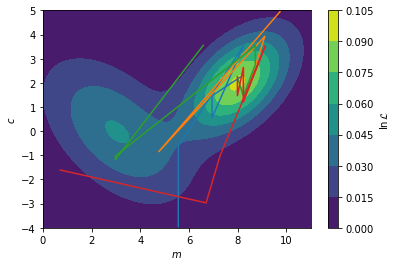
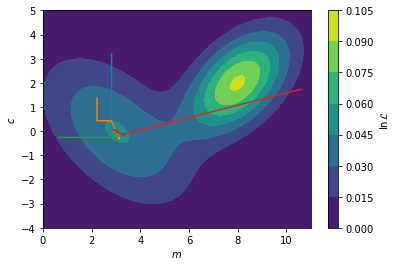
deploy: 8b0742b70a439c8d6c3557185ff2a49be4aedeb0

diff --git a/searchindex.js b/searchindex.js
@@ -1,1 +1,1 @@
-Search.setIndex({docnames:["1_the_fourier_transform/an_introduction_to_fourier_transforms","1_the_fourier_transform/fourier_transforms_for_reflectometry_analysis","2_model_dependent_analysis/what_is_model_dependent_analysis","3_reflectometry_slab_models/how_we_calculate_the_reflectivity_of_a_slab_model","3_reflectometry_slab_models/roughness_and_microslicing","3_reflectometry_slab_models/the_slab_model","4_model_reparameterisation/a_case_for_model_reparameterisation","4_model_reparameterisation/niti_multilayer_example","4_model_reparameterisation/phospholipid_monolayer_example","5_fitting_processes_and_problems/how_do_we_maximise_the_likelihood","5_fitting_processes_and_problems/how_to_leverage_our_prior_knowledge","5_fitting_processes_and_problems/what_is_the_likelihood","contributors","intro"],envversion:{"sphinx.domains.c":2,"sphinx.domains.changeset":1,"sphinx.domains.citation":1,"sphinx.domains.cpp":5,"sphinx.domains.index":1,"sphinx.domains.javascript":2,"sphinx.domains.math":2,"sphinx.domains.python":3,"sphinx.domains.rst":2,"sphinx.domains.std":2,"sphinx.ext.intersphinx":1,"sphinxcontrib.bibtex":9,sphinx:56},filenames:["1_the_fourier_transform/an_introduction_to_fourier_transforms.md","1_the_fourier_transform/fourier_transforms_for_reflectometry_analysis.ipynb","2_model_dependent_analysis/what_is_model_dependent_analysis.md","3_reflectometry_slab_models/how_we_calculate_the_reflectivity_of_a_slab_model.ipynb","3_reflectometry_slab_models/roughness_and_microslicing.ipynb","3_reflectometry_slab_models/the_slab_model.md","4_model_reparameterisation/a_case_for_model_reparameterisation.md","4_model_reparameterisation/niti_multilayer_example.ipynb","4_model_reparameterisation/phospholipid_monolayer_example.ipynb","5_fitting_processes_and_problems/how_do_we_maximise_the_likelihood.ipynb","5_fitting_processes_and_problems/how_to_leverage_our_prior_knowledge.md","5_fitting_processes_and_problems/what_is_the_likelihood.ipynb","contributors.md","intro.md"],objects:{},objnames:{},objtypes:{},terms:{"0":[1,3,4,8,9,10,11,13],"000":9,"00039":13,"001":[1,3,4],"00260":13,"003":13,"0053":13,"007":13,"012":13,"01980001503076100":13,"02":13,"022":[7,13],"02614057":9,"0294":13,"03":13,"033":9,"04493869":9,"0469":13,"04893":13,"0496667614679125":11,"06":[4,7],"07":13,"074":1,"074e":[1,4],"078":13,"092":9,"0j":[3,4],"1":[0,1,3,4,7,8,9,10,11,13],"10":[1,4,7,9,11,13],"1000":[1,3,8,9,11],"1008202821328":13,"1016":13,"1023":13,"1039":13,"104":1,"1051":13,"107":13,"108":13,"1098":13,"11":[9,13],"1103":13,"1107":13,"1119":13,"1198":13,"12":[1,4,11,13],"1204":13,"14":4,"15":[8,13],"155":13,"16":[1,3],"167":9,"17":4,"1761":13,"1763":13,"18":[8,13],"186":1,"186e":[1,3,4],"19":[8,9,13],"193":13,"1948":13,"194812030504":13,"1954":13,"197":13,"1980":13,"1997":13,"1998":13,"1999":13,"1e":4,"1f77b4":11,"1j":[1,3],"2":[1,3,4,7,9,11,13],"20":[1,3,4],"200":[1,3,4,13],"2005":13,"2006":13,"2007":13,"200q":1,"2010":13,"2011":13,"2018":13,"2019":13,"2021":13,"2022":13,"20384101638663543":11,"204":13,"21":13,"23":7,"23954182":9,"248":13,"25":1,"25e":4,"265":8,"265n_c":8,"2827":13,"2848":13,"297":13,"2f":1,"2k_nk_":4,"3":[1,3,4,5,7,9,11,13],"300":[1,3],"311":13,"3254017":13,"33":13,"338":13,"339":13,"341":13,"342":13,"357":13,"359":13,"369":13,"370":13,"3blue1brown":0,"3e":7,"4":[1,3,4,5,7,9,11,13],"40":13,"41":13,"417":7,"417e":7,"418":13,"42":[11,13],"4245e":4,"434":13,"438":7,"44":13,"4526":13,"46":1,"47":[7,13],"471":13,"5":[1,3,4,8,9],"50":4,"500":[1,3,4],"504":13,"51":7,"52":13,"520":13,"53":13,"531":13,"54":13,"58":7,"59":13,"596":13,"5q":3,"6":[1,3,4,7,9,13],"6133":13,"6141":13,"648":13,"649":13,"69":7,"7":[4,8,9,11],"761":13,"779":13,"78":13,"8":[1,4,7,9,11],"856832":13,"86310625":9,"867":7,"87":13,"871":1,"871e":[3,4],"9":[4,7,13],"90":8,"908":7,"91":7,"922868":13,"95":13,"951e":7,"978":13,"98":[1,13],"99":13,"9957561":9,"99615666":9,"99998503":9,"99999727":9,"\u00e0":13,"\u00e5":[0,1,3,4,7,8],"\u00e8":13,"\u00e9":13,"\u00f6":13,"\u00fc":13,"abel\u00e8":[3,4],"abstract":7,"br\u00f6hl":13,"case":[1,5,10],"do":[1,2],"float":[7,9,11],"function":[1,2,3,4,5,8,9,11],"import":[1,2,3,4,5,6,7,8,9,11],"int":1,"new":13,"return":[1,3,7,9,11],"switch":13,"true":[6,9],"try":9,"while":[6,7],A:[1,2,4,5,7,8,9],As:[5,8],Be:9,By:2,For:[1,7,8,11,13],If:[1,2,9,10,11,13],In:[1,5,6,8,9,10,13],It:[1,2,4,5,8,9,10],No:4,One:8,The:[0,2,3,4,6,7,8,9,11,13],Then:[1,2,3],There:[4,9],These:[1,4,9],To:[1,4,6],_:[1,3],ab:[1,3],abel:[3,4,13],abeles48:[3,13],abeles_with_rough:4,abl:4,about:[6,8,9,10],abouv:1,abov:[1,2,4,7,9,11],abscissa:11,absolut:9,academ:13,accept:[1,10],account:4,accur:[2,4,6],acf2:1,acf:1,achiev:[1,4,8,10],across:11,act:8,action:1,ad:8,adapt:4,add:8,add_patch:4,addit:[1,6,8],addition:[2,3,4,6,7,9],admittedli:4,advanc:13,affect:8,after:[1,9],again:[1,4],against:5,agnet:13,agre:11,agreement:[2,9,11],aid:3,aim:[9,11,13],air:[1,4,8,13],al:6,alexand:12,algorithm:[2,9,10,13],align:1,all:[0,3,9,10],allow:[6,7,8,9],alon:9,alonso:13,alpha:[1,11],alreadi:[2,10],also:[7,8],although:1,am:13,amphiphil:8,an:[2,4,5,6,9,10,13],analog:[0,9,11],analys:[9,13],analysi:[3,5,7,8,9,10,11,13],analyt:2,andbook:13,andrew:[12,13],angstrom:7,ani:[4,11],anlaysi:13,ann:13,anomagnet:13,anoth:1,anphi:13,apm:8,appear:1,append:9,appl:13,appli:[1,2,4,6,8,9,13],applic:[3,9,13],approach:[1,2,3,4,5,6,7,8,9,13],approx:1,approxim:[3,13],ar:[0,1,2,3,4,5,6,7,8,9,10,11,13],area:6,argmax:9,argsort:9,armstrong:12,arnold:[12,13],around:4,arrai:[1,3,4,7,9],artefact:4,artifici:13,artur:12,ask:13,assembl:8,assess:9,assign:7,associ:[10,11,13],assum:8,assumpt:[2,6,7,8],ateri:13,atom:[7,8],attach:8,attent:13,australian:12,autocorrel:1,avail:1,avogadro:7,awar:[2,9],ax:[1,4,11],axhlin:1,axvlin:1,b:[3,7,13],b_:[3,7],b_i:[7,8],b_ni:7,b_ti:7,back:9,balakrishnan:12,bar:[3,11],base:[2,3,7],basic:13,bay:[10,13],bayesian:[10,13],becom:[1,9],been:[1,3,4,7,8],befor:[0,4,5],begin:[1,3],being:[2,4,11,13],belief:10,believ:2,below:[0,1,3,4,5,7,8,9,11],benefit:8,berk:13,best:[8,9,11],beta:[1,3,4,7,8],beta_0:3,beta_1:5,beta_2:5,beta_:[1,7,8],beta_i:8,beta_microsl:4,beta_n:3,beta_ni:7,beta_ti:7,between:[0,1,2,3,4,5,9,11,13],bia:2,bias:10,big:1,bigg:[1,11],biolog:[9,13],bj:13,bjorck11:[9,13],black:[1,9],block:13,blue:[1,9,11],bmatrix:3,book:[1,10,13],born:[3,13],borrow:1,both:[8,13],bound:[7,10],bowen:13,bp63:[10,13],brian:12,bring:3,broad:[2,11],broadli:2,brought:3,bsd:3,c9cp00203k:13,c:[1,9,11,13],calcul:[1,2,4,5,8,11],call:5,callback:9,campbel:13,can:[1,2,3,4,5,6,7,8,9,10,11],cannot:[4,11],caract:13,carbon:8,carefulli:9,caruana:12,cation:13,catter:13,caus:8,caution:6,cdot:7,centr:12,chanc:13,chang:[1,2,9],character:13,characterist:3,characteristic_matric:3,chem:13,chemic:[5,6,13],chemistri:2,chi:11,chicago:12,circ:8,clark:13,clear:[2,4,5,9],clearer:3,clearli:4,clifton:13,close:3,cm:7,co:1,coci:13,code:[4,7,9,13],colloid:13,color:11,colorbar:9,comfort:13,common:[2,4,5,7,8,9],commonli:[1,6,9,11],compar:[2,3,4,6,11],comparison:5,complementari:6,complet:[2,9],complex:[3,8,9,13],composit:8,computation:9,concept:6,conclus:9,condens:13,conj:3,conjug:3,consid:[1,2,3,4,5,7,8,9,10,11],consider:9,consist:[5,7,8],constant:[2,7,10],constrain:[7,8],constraint:[6,8],construct:[2,3,5,10],consult:8,content:13,context:2,continu:13,contourf:9,contrast:9,contribut:13,convers:6,cooper:12,cosin:1,could:[5,10],coupl:9,cours:13,cover:[2,13],creat:4,croce:[4,13],crystallogr:13,crystallographi:1,css:[8,13],cubitt:13,curr:13,current:[9,13],current_theta:9,curve_fit:11,d:[1,3,4,11,13],d_1:5,d_2:5,d_h:8,d_i:8,d_microsl:4,d_n:3,d_t:8,dan:13,data:[1,2,3,4,5,6,7,8,9,10,11,13],databas:7,datapoint:11,dataset:[1,9,11],de:13,decomposit:0,deep:13,def:[1,3,7,9,11],defin:[1,2,5,6,7,8,11],deg2rad:8,delta:1,denot:1,densiti:[1,3,4,5,6,8],depend:[1,5,7,8,9,10,11,13],deposit:7,deriv:[1,5],descent:9,describ:[2,3,4,5,6,9,10,11],descript:[1,6,8],design:10,desir:[7,9],deslatt:13,destruct:5,detail:[0,1,2],detector:5,determin:[3,9,13],develop:13,deviat:[3,11],devind:[1,10,13],diagram:2,diatom:2,diff:[1,3],differ:[1,4,5,13],differenti:[9,10,13],differential_evolut:9,difficult:8,diffract:1,dimens:[1,5],dimension:9,dioxid:[1,4],directli:7,discoveri:9,discuss:[1,4,5,11],disposit:7,distanc:1,distinct:1,distribut:[9,11],divid:1,docstr:3,doctrin:13,doe:[2,3,4],doi:13,domain:0,done:11,dot:11,downhil:9,dppc:8,dr:[1,10],draw:[9,13],dtype:3,du:13,due:[1,2],dura:13,dvanc:13,e:[5,13],each:[3,4,5,7,8],easili:[7,9],edgecolor:4,edit:13,editor:13,edler:13,effect:[1,4,9,13],effici:13,eflect:13,elast:0,element:[7,11],elementari:[1,13],eleph:13,els:2,enabl:[4,10],encount:[2,9],end:[1,3],ensur:[2,9],entir:2,enumer:11,enzym:2,equat:[1,2],error:[4,11],errorbar:11,essai:13,essenti:0,estim:1,et:6,euroepan:12,european:13,eutect:13,eutron:13,evalu:[7,13],eventu:9,ever:2,everi:8,evolut:[9,10,13],evolutionari:9,exampl:[2,4,5,6,9,10],exhaust:13,exist:[4,9],exp:[1,3,4],expand:13,expect:[2,10],experi:[2,13],experiment:[2,5,6,11],expert:13,explicitli:1,exploit:13,explor:1,extend:8,extrem:8,f:[1,3,7,13],fact:10,factor:[3,11],fair:2,fals:4,familiar:[1,2,6],fantast:1,far:11,fashion:9,feed:9,feedback:13,feel:13,fernandez:13,ff7f0e:11,field:[8,13],fig:[1,4,5,8,11],figsiz:[1,4,11],figur:[1,2,4,9,11,13],fill:4,fill_between:11,find:[1,2,4,7,8,9,10,11,13],find_peak:1,first:[1,2,3,5,6,7,9,11],fit:[2,6,7,9,11,13],fitzsimmon:13,flat:[1,4],flavour:[6,9],flexion:13,flow:2,fm05:13,fm:7,focu:13,focus:0,follow:[1,7,8,9,11,13],forc:2,form:[1,9],formal:[3,4],format:13,found:[1,3,4,7,8,9,10],four:13,fourier:[2,3,5,13],fourier_transform:1,frac:[1,3,4,7,8,10,11],fraction:8,francoi:12,free:[6,9,13],frensel:3,fresnel:[3,4],fresnel_reflect:3,fring:1,from:[0,1,2,3,4,5,6,7,8,9,11,13],full:1,fulli:8,fundament:[0,5],further:[9,10],futur:13,g:[7,13],gaetano:12,gain:1,garbag:2,gcm:7,gener:[2,9,13],genet:13,geometri:5,gerelli:13,get:[2,11],github:13,give:[0,3,6,13],given:[4,5,8,9,11],glavic:12,glob:13,global:[9,13],go:[3,5,9],good:11,gradient:11,gradient_callback:9,gradient_v:9,gradual:13,graphic:7,great:[0,10],greater:1,group:8,grutter:12,guess:9,guntherodt:13,h:13,ha:[1,4,7,8,13],hall:12,hand:4,hard:7,harder:9,have:[1,2,3,8,9,10,11],head:8,heavili:[8,11,13],heavisid:1,heinrich:13,helmholtz:12,helper:[4,9],henc:[0,11],henomena:13,here:[3,11],hereon:12,heurist:13,higher:8,hoogerheid:13,hopefulli:5,horizont:1,how:[2,5,6,8,11,13],howard:13,howev:[1,2,4,5,6,7,9,11],hydrocarbon:8,hydrophil:8,hydrophob:[8,13],i10q:1,i:[1,3,5,7,8,11],identifi:4,ignor:4,illinoi:12,impact:[0,4],implement:[3,4,9],impli:4,impos:10,improv:2,inaccur:4,incid:[1,5],includ:[0,2,3,7,8,13],incorrectli:4,increas:[4,9,11],independ:2,indic:[1,9,11],individu:[3,7],induc:13,influenc:4,inform:[1,6,13],infti:1,inher:2,initi:9,input:3,insect:9,insight:[2,13],insolubl:8,inspir:9,instead:[1,3,7,9,10],institut:12,instrument:8,integr:10,intens:[1,9],interact:[0,1],intercal:8,intercept:11,interest:[0,2,13],interfac:[3,4,5,8,13],interfer:[1,5],interpret:[2,4],interrog:[4,9],introduc:[2,4,5,6,8,10],introduct:[10,13],inv_fourier_transform:1,invers:[1,13],investig:[1,2,6,9],involv:[5,7],isbn:13,isi:[12,13],isotop:9,issu:[1,13],its:7,j:13,jackson:13,jci:13,jean:12,john:[6,13],joshaniel:12,jpsc21:[6,13],k0:3,k:[1,3,9,13],k_0:3,k_:[3,4],k_n:[3,4],karin:13,khairi:13,kienzl:13,kinet:2,kn:3,knowledg:13,known:[2,8],kronm:13,l:[9,10,11,13],la:13,label:[1,3,4,9],lak19:13,lakei:13,languag:[6,13],larg:[1,13],later:[5,7],latter:6,lawrenc:13,layer:[3,4,5,7,8],le:13,lead:[0,1,2,4,5],leak:4,learn:8,lectromagn:13,left:4,legend:[1,3,4],length:[1,3,4,5,6,8],leq:1,less:5,let:[0,1,10],licens:3,light:13,like:[1,2,4,8,10],likelihood:10,limit:[1,2,7,8],line:[1,9,11],linearli:11,linspac:[1,3,4,8,9,11],lipid:13,liquid:13,list:13,literatur:8,ller:13,ln:[9,11],loadtxt:11,local:9,log:[1,3,4,11],logic:[2,10,13],logpdf:9,lond:13,look:[0,1,2,3,6,9,10,11],loss:1,lost:5,lovel:13,low:3,lr99:[2,13],ls:11,lw:11,m:[3,9,11,13],m_:[3,7],m_w:7,m_w_ni:7,m_w_ti:7,made:[2,6,7],magnet:13,magnitud:1,mai:[1,2,6,7,11,13],majkrzak:13,major:[7,11],make:[2,3,6,8,13],mangiapia:12,mani:[9,13],maranvil:12,mark:12,marker:11,mass:6,match:1,materi:[1,3,4,5,7],mathcal:[9,10,11],mathemat:13,mathit:[1,3],mathrm:[1,3,7,8,11],matnei:13,matplotlib:[1,3,4,8,9,11],matric:3,matrix:[3,4],matter:[7,13],matyszewska:13,max:[1,3,11],maxima:9,maximilian:12,maximis:[10,11],maximum:[8,9,10,11],mayer:13,mbd:[1,13],mccluskei:[12,13],mead:9,mean:[1,4,7,8,9,11],measur:[0,1,2,5,6,10,11,13],media:3,member:9,membran:13,menten:2,mention:8,merit:2,meshgrid:9,method:[3,4,13],methodolog:[1,2,4,9],metri:13,metric:[9,11],micel:13,micha:2,might:[2,13],milieux:13,minim:9,minimis:[9,11],minimum:[9,10],mkh10:[2,13],modal:9,model:[1,4,7,8,9,10,11,13],modifi:[3,4],modul:[4,9],mol:7,molecul:[2,6],molecular:7,monolay:13,more:[0,2,4,6,7,8,9,10,11],most:[3,4,5,9],moulin:12,move:9,movement:13,msfe:[8,13],much:[3,5],multi:9,multivariate_norm:9,muon:12,must:[2,4,8],mv1:9,mv2:9,mv:9,n:[3,4,7,8,11,13],n_:[3,11],n_a:7,n_c:8,nanostructur:13,nation:12,natur:[6,8],nazaruk:13,ndarrai:[1,3,7,9,11],nearbi:9,necessari:[3,4,9],need:2,neg:9,nelder:9,nelson:[12,13],neutron:[0,1,2,3,5,6,7,9,12,13],nevot:4,nevotc80:[4,13],newaxi:[1,3],ni:7,nickel:[4,7],nll:9,nois:1,noisi:1,non:9,none:9,norm:11,normal:[1,3,9,11],normal_wavevector:3,normalis:[1,11],note:[1,2,8,9],notic:[4,11],now:[0,3,4,8,9,11],np19:[3,13],np:[1,3,4,7,8,9,11],nuanc:5,number:[1,6,7,8,9,11],number_lay:3,number_q:3,numer:1,numpi:[1,3,4,7,8,9,11],o:11,observ:[1,4,5,11],obtain:[1,4,7],obvious:5,offer:2,offset:1,often:13,olar:13,onc:[9,13],ond:13,one:[8,9,10,11],ones:3,ones_lik:4,onli:[1,4,7,8,11],onlin:7,open:13,opin:13,opinion:13,optim:[9,11,13],optimis:[8,9],optimum:9,orang:[9,11],order:[5,9],organis:13,origin:13,other:[8,11],our:[1,2,4,5,6,7,8,9,11],out:[2,10],outsid:10,over:13,overal:[3,9,11],overview:0,oxford:13,p0:3,p1:3,p:[10,11,13],packag:[3,7],page:13,pai:13,panaccion:13,paper:13,par54:[3,13],par:13,param:[1,3,7,11],paramet:[3,4,5,6,7,8,9,10,11,13],parameteris:[6,8,13],pari:13,parker:13,parkin:13,parratt:[3,13],part:[1,11],particl:9,particular:[5,6],particularli:13,patch:4,path:[5,9],pattern:[0,1,5],paul:12,pdf:[9,11],peak:1,pedogog:1,pedulla:13,per:6,perfect:4,perfectli:4,perform:[0,1,11],perpendicular:1,pg:1,phase:[1,2,3,13],phase_factor:3,phi:3,phi_0:3,phi_i:8,phi_n:3,phi_t:3,phil:13,phospholipid:13,phy:13,physic:[1,2,5,6,8,13],physica:13,physrev:13,pi:[1,3,11],pictori:8,piec:[1,4,7],pint:7,place:10,plane:[1,8],pleas:13,plot:[1,3,4,8,9,11,13],plt:[1,3,4,8,9,11],point:11,polar:13,polissag:13,popul:9,popular:2,posit:9,possibl:[1,2,4,5,8,9,11],posterior:10,prepar:[2,7],prescott:13,present:[1,2,4],press:13,pressur:8,preston:13,previou:[2,6],previous:[3,4,6,8],price:13,print:[1,7,9],probabl:[10,11],probe:[2,9,10],problem:[1,2,9,13],procedur:13,process:[2,6,7,9,13],prod:3,produc:[1,2,13],product:3,profil:[1,4,5],program:13,propag:[3,5,13],propos:2,propto:10,purnima:12,py:[4,9],pyplot:[1,3,4,8,9,11],python:[3,13],q2:1,q:[0,1,2,3,4,13],q_:1,q_x:1,q_y:1,qualiti:9,quantifi:9,quantiti:13,quelqu:13,question:13,quick:1,quickli:1,r2:1,r:[1,3,4,5,8,12,13],r_:[3,4],r_abel:3,r_fourier:3,r_microsl:4,r_nevot_croc:4,r_with_rough:4,radiat:[0,1],rai:[1,13],random:9,rang:[1,2,3,4,9,13],rasant:13,rather:[2,6,7],ratio:5,ration:9,rationalis:1,rayon:13,rck:13,re:9,reach:[7,9],read:13,real:[3,4,5],realli:2,reason:7,recent:[8,13],reciev:13,rectangl:4,recurs:3,red:4,reduc:[6,8],refin:5,reflect:[1,2,4,5],reflecto:13,reflectometri:[0,2,3,4,5,6,7,8,9,11],refnx:[3,13],refract:[3,5],region:[1,4,8,9],relat:7,relationship:1,relev:[8,13],reli:3,render:1,reparameteris:[5,7,8,11,13],repeat:7,repositori:13,repres:[2,11],reproduc:3,requir:[6,13],res1:9,res2:9,resolut:[1,2],respect:1,result:[1,2,3,4,5,9],resultant_matrix:3,retriv:1,rev:13,review:13,rewrit:1,rho:[3,7],rho_:7,rho_ni:7,rho_ti:7,rho_to_beta:7,richardson:13,right:[1,4],risat:13,robust:9,room:7,root:9,rout:9,rphysap:13,rsta:13,rstl:13,rule:4,s0021889811041446:13,s0921:13,s1359:13,s1600576718017016:13,s1600576718017296:13,s:[0,1,7,8,9,10,13],saaka:13,sai:1,same:[1,4,5,7,11],sampl:[0,1,2,4,7],sanchez:13,sansom:13,satija:13,scale:[1,13],scatter:[0,1,3,4,5,6,8,12,13],sche:13,scherrer:12,schlossman:12,school:13,sci:13,scienc:[2,13],scipi:[1,7,9,11],search:13,section:[2,5,6,9],see:[4,5,9],seen:[10,11],select:11,self:8,semi:9,sensit:1,separ:1,seri:[1,3,4,5],set:7,set_xlabel:[1,4,11],set_xlim:4,set_ylabel:[1,4,11],set_ylim:4,shao:13,shape:[3,9],shortest:4,should:[1,4,6,8,9,11,13],show:[1,2,3,4,5,7,8,9,11,13],shown:[1,2,3,4,5,8,9,11],si:1,sigma2:4,sigma3:4,sigma5:4,sigma7:4,sigma:[4,11],sigma_:4,sigma_n:11,signal:1,silic:13,silicon:[1,4,7],similar:[2,3],simpl:[1,2,5,6,7,8,9,10,13],simpli:9,simul:[2,4,5,6,7],sin:8,singl:[8,11],sio_2:1,sit:[8,11],siv11:[1,13],sivia:[1,10,13],sj06:[10,13],skill:13,skip:13,sko19:13,skoda:[12,13],slab:[4,6,8,13],sld_with_rough:4,smooth:[1,4],so:11,soc:13,soft:13,solid:13,solubl:8,solut:9,solv:13,solvat:8,solvent:[8,13],some:[0,1,2,4,5,8,9,10,11,13],someth:[0,2],son:13,sourc:[12,13],sp97:[9,13],space:[0,9,13],spallat:[12,13],speak:8,specif:[6,8],spectra:2,specular:13,spintron:13,springer:13,sqrt:3,squar:[1,3],sratifi:13,staff:8,standard:[11,12,13],start:[9,10],stat:[9,11],state:10,std:1,step:[1,4,9,10],stephen:12,still:[4,7],storn:13,straight_lin:11,straightforward:6,strand:8,stratifi:3,structur:[1,2,6,7,13],studi:[1,2,8,13],subject:13,subplot:[1,4,11],suggest:[10,13],sum:[1,3,7],sum_:[7,8,11],summat:11,superphas:3,sur:13,sure:13,surfac:[1,3,7,13],surfact:13,swarm:9,synthesi:2,system:[1,2,4,5,6,7,8,9,13],t:[9,13],t_t:8,tackl:2,tail:8,take:[0,2,9,10],taken:[3,5],tan80:[8,13],tanford:[8,13],techniqu:[6,13],technolog:12,temperatur:7,tend:1,term:[5,7,8,11],text:1,textquotesingl:13,than:[1,4,7,9],thei:[1,9,13],them:[4,11],theorem:10,theori:[1,13],therefor:[1,2,4,6,7,9,10],theta:[8,9,10,11],thi:[0,1,2,3,4,5,6,7,8,9,10,11],thick:[1,3,4,5,8],thin:4,thing:2,think:6,those:10,thought:1,three:[2,7],through:[3,4,5,13],thumb:4,tight_layout:11,time:[0,1,4,7],times10:1,tiqu:13,titanium:7,tkh:[9,13],togeth:3,tom:12,tool:[1,2,6],top4:9,top:1,toperverg:13,total:13,toward:[1,9,13],tradit:[7,8,13],tran:13,transform:[2,3,5,13],translat:6,transmitt:3,treec:13,trigonometri:8,tude:13,turn:9,tutori:[10,13],two:[1,2,3,4,5,6,8,9],txt:11,typic:[2,4,5,6,7,8,9,11],tz07:13,u:7,uantum:13,uncertainti:11,unclear:7,under:[1,3,8],underli:[2,11],understand:[1,2,3,5,6,10,13],unintuit:6,uniqu:9,unit:0,unitregistri:7,univers:[12,13],unlik:8,unphys:[1,4],until:7,up:9,uphil:9,us:[2,3,4,6,7,8,9,10,11,13],useless:1,user:[1,13],utilis:1,valu:[1,3,7,8,9,10,11],valuabl:1,vari:[7,9],variabl:7,varieti:9,vector:3,veri:[4,8,9],verr:13,version:1,vibrat:2,video:0,visualis:[1,4],vot:13,w:[7,13],wa:[1,2,5,10,13],wai:[2,8],watch:0,water:[8,13],wave:[3,5],wavevector:[1,3],wc19:13,we:[0,1,2,4,5,6,7,8,10,11,13],webpag:13,weight:7,welbourn:13,well:2,were:10,what:13,when:[3,5,8,9,10,11],where:[1,2,3,4,5,7,8,9,10,11],which:[0,1,3,4,7,8,9,10,11],width:4,wiesendang:13,wilei:13,within:10,without:[1,2,4],word:[2,13],work:[4,6,13],workflow:2,workshop:13,wormington:13,would:[1,2,4,5,8,10],wpmb99:[9,13],written:[1,11],wwe:8,x:[1,9,11,13],x_n:11,xlabel:[1,3,4,8,9],xy:8,y:[9,10,11,13],y_fit:11,y_n:11,ylabel:[1,3,4,8,9],you:[1,2,10,11,13],your:[8,13],yscale:[1,3,4],yy:11,z:[1,3,4,5],zabel:13,zentrum:12,zero:3,zeros_lik:[1,3],zhou:13,zorder:11,zq:1,ztbt07:13},titles:["An introduction to Fourier transforms","Fourier transforms for reflectometry analysis","What is model-dependent analysis?","How we calculate the reflectivity of a slab model","Roughness and microslicing","The \u201cslab model\u201d","A case for model reparameterisation","NiTi multilayer example","Phospholipid monolayer example","How do we maximise the likelihood?","How to leverage our prior knowledge?","What is the likelihood?","Contributors","A Guide to Reflectometry"],titleterms:{"case":6,"do":9,A:[6,10,13],The:[1,5],about:13,algorithm:3,an:[0,1],analysi:[1,2],angl:8,approxim:1,area:8,bibliographi:13,born:1,calcul:3,chain:8,contributor:12,densiti:7,depend:2,exampl:[1,7,8],fourier:[0,1],gradient:9,guid:13,how:[3,9,10],interfac:1,interfaci:4,introduct:0,knowledg:10,layer:1,length:7,leverag:10,likelihood:[9,11],mass:7,materi:13,maximis:9,method:9,microsl:4,model:[2,3,5,6],molecul:8,monolay:8,multilay:7,niti:7,our:10,oxid:1,per:8,phospholipid:8,prior:10,problem:4,reflect:[3,13],reflectometri:[1,13],reparameteris:6,rough:4,scatter:7,singl:1,slab:[3,5],specular:1,stochast:9,thi:13,tilt:8,transform:[0,1],uniform:10,us:1,vs:13,we:[3,9],what:[0,2,11]}})
+Search.setIndex({docnames:["1_the_fourier_transform/an_introduction_to_fourier_transforms","1_the_fourier_transform/fourier_transforms_for_reflectometry_analysis","2_model_dependent_analysis/what_is_model_dependent_analysis","3_reflectometry_slab_models/how_we_calculate_the_reflectivity_of_a_slab_model","3_reflectometry_slab_models/roughness_and_microslicing","3_reflectometry_slab_models/the_slab_model","4_model_reparameterisation/a_case_for_model_reparameterisation","4_model_reparameterisation/niti_multilayer_example","4_model_reparameterisation/phospholipid_monolayer_example","5_fitting_processes_and_problems/how_do_we_maximise_the_likelihood","5_fitting_processes_and_problems/how_to_leverage_our_prior_knowledge","5_fitting_processes_and_problems/what_is_the_likelihood","contributors","intro"],envversion:{"sphinx.domains.c":2,"sphinx.domains.changeset":1,"sphinx.domains.citation":1,"sphinx.domains.cpp":5,"sphinx.domains.index":1,"sphinx.domains.javascript":2,"sphinx.domains.math":2,"sphinx.domains.python":3,"sphinx.domains.rst":2,"sphinx.domains.std":2,"sphinx.ext.intersphinx":1,"sphinxcontrib.bibtex":9,sphinx:56},filenames:["1_the_fourier_transform/an_introduction_to_fourier_transforms.md","1_the_fourier_transform/fourier_transforms_for_reflectometry_analysis.ipynb","2_model_dependent_analysis/what_is_model_dependent_analysis.md","3_reflectometry_slab_models/how_we_calculate_the_reflectivity_of_a_slab_model.ipynb","3_reflectometry_slab_models/roughness_and_microslicing.ipynb","3_reflectometry_slab_models/the_slab_model.md","4_model_reparameterisation/a_case_for_model_reparameterisation.md","4_model_reparameterisation/niti_multilayer_example.ipynb","4_model_reparameterisation/phospholipid_monolayer_example.ipynb","5_fitting_processes_and_problems/how_do_we_maximise_the_likelihood.ipynb","5_fitting_processes_and_problems/how_to_leverage_our_prior_knowledge.md","5_fitting_processes_and_problems/what_is_the_likelihood.ipynb","contributors.md","intro.md"],objects:{},objnames:{},objtypes:{},terms:{"0":[1,3,4,8,9,10,11,13],"000":9,"00039":13,"001":[1,3,4],"00260":13,"003":13,"0053":13,"007":13,"012":13,"01980001503076100":13,"02":13,"022":[7,13],"02606086":9,"02614057":9,"0294":13,"03":13,"033":9,"04483649":9,"04493869":9,"0469":13,"04893":13,"0496667614679125":11,"06":[4,7],"07":13,"074":1,"074e":[1,4],"078":13,"092":9,"0j":[3,4],"1":[0,1,3,4,7,8,9,10,11,13],"10":[1,4,7,9,11,13],"1000":[1,3,8,9,11],"1008202821328":13,"1016":13,"1023":13,"1039":13,"104":1,"1051":13,"107":13,"108":13,"1098":13,"11":[9,13],"1103":13,"1107":13,"1119":13,"1198":13,"12":[1,4,11,13],"1204":13,"14":4,"15":[8,13],"155":13,"16":[1,3],"167":9,"17":4,"1761":13,"1763":13,"18":[8,13],"186":1,"186e":[1,3,4],"19":[8,9,13],"193":13,"1948":13,"194812030504":13,"1954":13,"197":13,"1980":13,"1997":13,"1998":13,"1999":13,"1e":4,"1f77b4":11,"1j":[1,3],"2":[1,3,4,7,9,11,13],"20":[1,3,4],"200":[1,3,4,13],"2005":13,"2006":13,"2007":13,"200q":1,"2010":13,"2011":13,"2018":13,"2019":13,"2021":13,"2022":13,"20384101638663543":11,"204":13,"21":13,"23":7,"248":13,"25":1,"25e":4,"265":8,"265n_c":8,"2827":13,"2848":13,"297":13,"2f":1,"2k_nk_":4,"3":[1,3,4,5,7,9,11,13],"300":[1,3],"311":13,"3254017":13,"33":13,"338":13,"339":13,"341":13,"342":13,"357":13,"359":13,"369":13,"370":13,"3blue1brown":0,"3e":7,"4":[1,3,4,5,7,9,11,13],"40":13,"41":13,"417":7,"417e":7,"418":13,"42":[11,13],"4245e":4,"434":13,"438":7,"44":13,"4526":13,"46":1,"47":[7,13],"471":13,"5":[1,3,4,8,9],"50":4,"500":[1,3,4],"504":13,"51":7,"52":13,"520":13,"53":13,"531":13,"54":13,"58":7,"59":13,"596":13,"5q":3,"6":[1,3,4,7,9,13],"6133":13,"6141":13,"648":13,"649":13,"69":7,"7":[4,8,9,11],"761":13,"779":13,"78":13,"8":[1,4,7,9,11],"856832":13,"867":7,"87":13,"871":1,"871e":[3,4],"9":[4,7,13],"90":8,"908":7,"91":7,"922868":13,"95":13,"951e":7,"978":13,"98":[1,13],"99":13,"9957561":9,"99615666":9,"99998503":9,"99999727":9,"\u00e0":13,"\u00e5":[0,1,3,4,7,8],"\u00e8":13,"\u00e9":13,"\u00f6":13,"\u00fc":13,"abel\u00e8":[3,4],"abstract":7,"br\u00f6hl":13,"case":[1,5,10],"do":[1,2],"float":[7,9,11],"function":[1,2,3,4,5,8,9,11],"import":[1,2,3,4,5,6,7,8,9,11],"int":1,"new":13,"return":[1,3,7,9,11],"switch":13,"true":[6,9],"try":9,"while":[6,7],A:[1,2,4,5,7,8,9],As:[5,8],Be:9,By:2,For:[1,7,8,11,13],If:[1,2,9,10,11,13],In:[1,5,6,8,9,10,13],It:[1,2,4,5,8,9,10],No:4,One:8,The:[0,2,3,4,6,7,8,9,11,13],Then:[1,2,3],There:[4,9],These:[1,4,9],To:[1,4,6],_:[1,3],ab:[1,3],abel:[3,4,13],abeles48:[3,13],abeles_with_rough:4,abl:4,about:[6,8,9,10],abouv:1,abov:[1,2,4,7,9,11],abscissa:11,absolut:9,academ:13,accept:[1,10],account:4,accur:[2,4,6],acf2:1,acf:1,achiev:[1,4,8,10],across:11,act:8,action:1,ad:8,adapt:4,add:8,add_patch:4,addit:[1,6,8],addition:[2,3,4,6,7,9],admittedli:4,advanc:13,affect:8,after:[1,9],again:[1,4],against:5,agnet:13,agre:11,agreement:[2,9,11],aid:3,aim:[9,11,13],air:[1,4,8,13],al:6,alexand:12,algorithm:[2,9,10,13],align:1,all:[0,3,9,10],allow:[6,7,8,9],alon:9,alonso:13,alpha:[1,11],alreadi:[2,10],also:[7,8],although:1,am:13,amphiphil:8,an:[2,4,5,6,9,10,13],analog:[0,9,11],analys:[9,13],analysi:[3,5,7,8,9,10,11,13],analyt:2,andbook:13,andrew:[12,13],angstrom:7,ani:[4,11],anlaysi:13,ann:13,anomagnet:13,anoth:1,anphi:13,apm:8,appear:1,append:9,appl:13,appli:[1,2,4,6,8,9,13],applic:[3,9,13],approach:[1,2,3,4,5,6,7,8,9,13],approx:1,approxim:[3,13],ar:[0,1,2,3,4,5,6,7,8,9,10,11,13],area:6,argmax:9,argsort:9,armstrong:12,arnold:[12,13],around:4,arrai:[1,3,4,7,9],artefact:4,artifici:13,artur:12,ask:13,assembl:8,assess:9,assign:7,associ:[10,11,13],assum:8,assumpt:[2,6,7,8],ateri:13,atom:[7,8],attach:8,attent:13,australian:12,autocorrel:1,avail:1,avogadro:7,awar:[2,9],ax:[1,4,11],axhlin:1,axvlin:1,b:[3,7,13],b_:[3,7],b_i:[7,8],b_ni:7,b_ti:7,back:9,balakrishnan:12,bar:[3,11],base:[2,3,7],basic:13,bay:[10,13],bayesian:[10,13],becom:[1,9],been:[1,3,4,7,8],befor:[0,4,5],begin:[1,3],being:[2,4,11,13],belief:10,believ:2,below:[0,1,2,3,4,5,7,8,9,11],benefit:8,berk:13,best:[8,9,11],beta:[1,3,4,7,8],beta_0:3,beta_1:5,beta_2:5,beta_:[1,7,8],beta_i:8,beta_microsl:4,beta_n:3,beta_ni:7,beta_ti:7,between:[0,1,2,3,4,5,9,11,13],bia:2,bias:10,big:1,bigg:[1,11],biolog:[9,13],bj:13,bjorck11:[9,13],black:[1,9],block:13,blue:[1,9,11],bmatrix:3,book:[1,10,13],born:[3,13],borrow:1,both:[8,13],bound:[7,10],bowen:13,bp63:[10,13],brian:12,bring:3,broad:[2,11],broadli:2,brought:3,bsd:3,c9cp00203k:13,c:[1,9,11,13],calcul:[1,2,4,5,8,11],call:5,callback:9,campbel:13,can:[1,2,3,4,5,6,7,8,9,10,11],cannot:[4,11],caract:13,carbon:8,carefulli:9,caruana:12,cation:13,catter:13,caus:8,caution:6,cdot:7,centr:12,chanc:13,chang:[1,2,9],character:13,characterist:3,characteristic_matric:3,chem:13,chemic:[5,6,13],chemistri:2,chi:11,chicago:12,circ:8,clark:13,clear:[2,4,5,9],clearer:3,clearli:4,clifton:13,close:3,cm:7,co:1,coci:13,code:[4,7,9,13],colloid:13,color:11,colorbar:9,comfort:13,common:[2,4,5,7,8,9],commonli:[1,6,9,11],compar:[2,3,4,6,11],comparison:5,complementari:6,complet:[2,9],complex:[3,8,9,13],composit:8,computation:9,concept:6,conclus:9,condens:13,conj:3,conjug:3,consid:[1,2,3,4,5,7,8,9,10,11],consider:9,consist:[5,7,8],constant:[2,7,10],constrain:[7,8],constraint:[6,8],construct:[2,3,5,10],consult:8,content:13,context:2,continu:13,contourf:9,contrast:9,contribut:13,convers:6,cooper:12,cosin:1,could:[5,10],coupl:9,cours:13,cover:[2,13],creat:4,croce:[4,13],crystallogr:13,crystallographi:1,css:[8,13],cubitt:13,curr:13,current:[9,13],current_theta:9,curve_fit:11,d:[1,3,4,11,13],d_1:5,d_2:5,d_h:8,d_i:8,d_microsl:4,d_n:3,d_t:8,dan:13,data:[1,2,3,4,5,6,7,8,9,10,11,13],databas:7,datapoint:11,dataset:[1,9,11],de:13,decomposit:0,deep:13,def:[1,3,7,9,11],defin:[1,2,5,6,7,8,11],deg2rad:8,delta:1,denot:1,densiti:[1,3,4,5,6,8],depend:[1,5,7,8,9,10,11,13],deposit:7,deriv:[1,5],descent:9,describ:[2,3,4,5,6,9,10,11],descript:[1,6,8],design:10,desir:[7,9],deslatt:13,destruct:5,detail:[0,1,2],detector:5,determin:[3,9,13],develop:13,deviat:[3,11],devind:[1,10,13],diatom:2,diff:[1,3],differ:[1,4,5,13],differenti:[9,10,13],differential_evolut:9,difficult:8,diffract:1,dimens:[1,5],dimension:9,dioxid:[1,4],directli:7,discoveri:9,discuss:[1,4,5,11],disposit:7,distanc:1,distinct:1,distribut:[9,11],divid:1,docstr:3,doctrin:13,doe:[2,3,4],doi:13,domain:0,done:11,dot:11,downhil:9,dppc:8,dr:[1,10],draw:[9,13],dtype:3,du:13,due:[1,2],dura:13,dvanc:13,e:[5,13],each:[3,4,5,7,8],easili:[7,9],edgecolor:4,edit:13,editor:13,edler:13,effect:[1,4,9,13],effici:13,eflect:13,elast:0,element:[7,11],elementari:[1,13],eleph:13,els:2,enabl:[4,10],encount:[2,9],end:[1,3],ensur:[2,9],entir:2,enumer:11,enzym:2,equat:[1,2],error:[4,11],errorbar:11,essai:13,essenti:0,estim:1,et:6,euroepan:12,european:13,eutect:13,eutron:13,evalu:[7,13],eventu:9,ever:2,everi:8,evolut:[9,10,13],evolutionari:9,exampl:[2,4,5,6,9,10],exhaust:13,exist:[4,9],exp:[1,3,4],expand:13,expect:[2,10],experi:[2,13],experiment:[2,5,6,11],expert:13,explicitli:1,exploit:13,explor:1,extend:8,extrem:8,f:[1,3,7,13],fact:10,factor:[3,11],fair:2,fals:4,familiar:[1,2,6],fantast:1,far:11,fashion:9,feed:9,feedback:13,feel:13,fernandez:13,ff7f0e:11,field:[8,13],fig:[1,4,5,8,11],figsiz:[1,4,11],figur:[1,2,4,9,11,13],fill:4,fill_between:11,find:[1,2,4,7,8,9,10,11,13],find_peak:1,first:[1,2,3,5,6,7,9,11],fit:[2,6,7,9,11,13],fitzsimmon:13,flat:[1,4],flavour:[6,9],flexion:13,flow:2,fm05:13,fm:7,focu:13,focus:0,follow:[1,7,8,9,11,13],forc:2,form:[1,9],formal:[3,4],format:13,found:[1,3,4,7,8,9,10],four:13,fourier:[2,3,5,13],fourier_transform:1,frac:[1,3,4,7,8,10,11],fraction:8,francoi:12,free:[6,9,13],frensel:3,fresnel:[3,4],fresnel_reflect:3,fring:1,from:[0,1,2,3,4,5,6,7,8,9,11,13],full:1,fulli:8,fundament:[0,5],further:[9,10],futur:13,g:[7,13],gaetano:12,gain:1,garbag:2,gcm:7,gener:[2,9,13],genet:13,geometri:5,gerelli:13,get:[2,11],github:13,give:[0,3,6,13],given:[4,5,8,9,11],glavic:12,glob:13,global:[9,13],go:[3,5,9],good:11,gradient:11,gradient_callback:9,gradient_v:9,gradual:13,graphic:7,great:[0,10],greater:1,group:8,grutter:12,guess:9,guntherodt:13,h:13,ha:[1,4,7,8,13],hall:12,hand:4,hard:7,harder:9,have:[1,2,3,8,9,10,11],head:8,heavili:[8,11,13],heavisid:1,heinrich:13,helmholtz:12,helper:[4,9],henc:[0,11],henomena:13,here:[3,11],hereon:12,heurist:13,higher:8,hoogerheid:13,hopefulli:5,horizont:1,how:[2,5,6,8,11,13],howard:13,howev:[1,2,4,5,6,7,9,11],hydrocarbon:8,hydrophil:8,hydrophob:[8,13],i10q:1,i:[1,3,5,7,8,11],identifi:4,ignor:4,illinoi:12,impact:[0,4],implement:[3,4,9],impli:4,impos:10,improv:2,inaccur:4,incid:[1,5],includ:[0,2,3,7,8,13],incorrectli:4,increas:[4,9,11],independ:2,indic:[1,9,11],individu:[3,7],induc:13,influenc:4,inform:[1,6,13],infti:1,inher:2,initi:9,input:3,insect:9,insight:[2,13],insolubl:8,inspir:9,instead:[1,3,7,9,10],institut:12,instrument:8,integr:10,intens:[1,9],interact:[0,1],intercal:8,intercept:11,interest:[0,2,13],interfac:[3,4,5,8,13],interfer:[1,5],interpret:[2,4],interrog:[4,9],introduc:[2,4,5,6,8,10],introduct:[10,13],inv_fourier_transform:1,invers:[1,13],investig:[1,2,6,9],involv:[5,7],isbn:13,isi:[12,13],isotop:9,issu:[1,13],its:7,j:13,jackson:13,jci:13,jean:12,john:[6,13],joshaniel:12,jpsc21:[6,13],k0:3,k:[1,3,9,13],k_0:3,k_:[3,4],k_n:[3,4],karin:13,khairi:13,kienzl:13,kinet:2,kn:3,knowledg:13,known:[2,8],kronm:13,l:[9,10,11,13],la:13,label:[1,3,4,9],lak19:13,lakei:13,languag:[6,13],larg:[1,13],later:[5,7],latter:6,lawrenc:13,layer:[3,4,5,7,8],le:13,lead:[0,1,2,4,5],leak:4,learn:8,lectromagn:13,left:4,legend:[1,3,4],length:[1,3,4,5,6,8],leq:1,less:5,let:[0,1,10],licens:3,light:13,like:[1,2,4,8,10],likelihood:10,limit:[1,2,7,8],line:[1,9,11],linearli:11,linspac:[1,3,4,8,9,11],lipid:13,liquid:13,list:13,literatur:8,ller:13,ln:[9,11],loadtxt:11,local:9,log:[1,3,4,11],logic:[2,10,13],logpdf:9,lond:13,look:[0,1,2,3,6,9,10,11],loss:1,lost:5,lovel:13,low:3,lr99:[2,13],ls:11,lw:11,m:[3,9,11,13],m_:[3,7],m_w:7,m_w_ni:7,m_w_ti:7,made:[2,6,7],magnet:13,magnitud:1,mai:[1,2,6,7,11,13],majkrzak:13,major:[7,11],make:[2,3,6,8,13],mangiapia:12,mani:[9,13],maranvil:12,mark:12,marker:11,mass:6,match:1,materi:[1,3,4,5,7],mathcal:[9,10,11],mathemat:13,mathit:[1,3],mathrm:[1,3,7,8,11],matnei:13,matplotlib:[1,3,4,8,9,11],matric:3,matrix:[3,4],matter:[7,13],matyszewska:13,max:[1,3,11],maxima:9,maximilian:12,maximis:[10,11],maximum:[8,9,10,11],mayer:13,mbd:[1,13],mccluskei:[12,13],mead:9,mean:[1,4,7,8,9,11],measur:[0,1,2,5,6,10,11,13],media:3,member:9,membran:13,menten:2,mention:8,merit:2,meshgrid:9,method:[3,4,13],methodolog:[1,2,4,9],metri:13,metric:[9,11],micel:13,micha:2,might:[2,13],milieux:13,minim:9,minimis:[9,11],minimum:[9,10],mkh10:[2,13],modal:9,model:[1,4,7,8,9,10,11,13],modifi:[3,4],modul:[4,9],mol:7,molecul:[2,6],molecular:7,monolay:13,more:[0,2,4,6,7,8,9,10,11],most:[3,4,5,9],moulin:12,move:9,movement:13,msfe:[8,13],much:[3,5],multi:9,multivariate_norm:9,muon:12,must:[2,4,8],mv1:9,mv2:9,mv:9,n:[3,4,7,8,11,13],n_:[3,11],n_a:7,n_c:8,nanostructur:13,nation:12,natur:[6,8],nazaruk:13,ndarrai:[1,3,7,9,11],nearbi:9,necessari:[3,4,9],need:2,neg:9,nelder:9,nelson:[12,13],neutron:[0,1,2,3,5,6,7,9,12,13],nevot:4,nevotc80:[4,13],newaxi:[1,3],ni:7,nickel:[4,7],nll:9,nois:1,noisi:1,non:9,none:9,norm:11,normal:[1,3,9,11],normal_wavevector:3,normalis:[1,11],note:[1,2,8,9],notic:[4,11],now:[0,3,4,8,9,11],np19:[3,13],np:[1,3,4,7,8,9,11],nuanc:5,number:[1,6,7,8,9,11],number_lay:3,number_q:3,numer:1,numpi:[1,3,4,7,8,9,11],o:11,observ:[1,4,5,11],obtain:[1,4,7],obvious:5,offer:2,offset:1,often:13,olar:13,onc:[9,13],ond:13,one:[8,9,10,11],ones:3,ones_lik:4,onli:[1,4,7,8,11],onlin:7,open:13,opin:13,opinion:13,optim:[9,11,13],optimis:[8,9],optimum:9,orang:[9,11],order:[5,9],organis:13,origin:13,other:[8,11],our:[1,2,4,5,6,7,8,9,11],out:[2,10],outsid:10,over:13,overal:[3,9,11],overview:0,oxford:13,p0:3,p1:3,p:[10,11,13],packag:[3,7],page:13,pai:13,panaccion:13,paper:13,par54:[3,13],par:13,param:[1,3,7,11],paramet:[3,4,5,6,7,8,9,10,11,13],parameteris:[6,8,13],pari:13,parker:13,parkin:13,parratt:[3,13],part:[1,11],particl:9,particular:[5,6],particularli:13,patch:4,path:[5,9],pattern:[0,1,5],paul:12,pdf:[9,11],peak:1,pedogog:1,pedulla:13,per:6,perfect:4,perfectli:4,perform:[0,1,11],perpendicular:1,pg:1,phase:[1,2,3,13],phase_factor:3,phi:3,phi_0:3,phi_i:8,phi_n:3,phi_t:3,phil:13,phospholipid:13,phy:13,physic:[1,2,5,6,8,13],physica:13,physrev:13,pi:[1,3,11],pictori:8,piec:[1,4,7],pint:7,place:10,plane:[1,8],pleas:13,plot:[1,3,4,8,9,11,13],plt:[1,3,4,8,9,11],point:11,polar:13,polissag:13,popul:9,popular:2,posit:9,possibl:[1,2,4,5,8,9,11],posterior:10,prepar:[2,7],prescott:13,present:[1,2,4],press:13,pressur:8,preston:13,previou:[2,6],previous:[3,4,6,8],price:13,print:[1,7,9],probabl:[10,11],probe:[2,9,10],problem:[1,2,9,13],procedur:13,process:[2,6,7,9,13],prod:3,produc:[1,2,13],product:3,profil:[1,4,5],program:13,propag:[3,5,13],propos:2,propto:10,purnima:12,py:[4,9],pyplot:[1,3,4,8,9,11],python:[3,13],q2:1,q:[0,1,2,3,4,13],q_:1,q_x:1,q_y:1,qualiti:9,quantifi:9,quantiti:13,quelqu:13,question:13,quick:1,quickli:1,r2:1,r:[1,3,4,5,8,12,13],r_:[3,4],r_abel:3,r_fourier:3,r_microsl:4,r_nevot_croc:4,r_with_rough:4,radiat:[0,1],rai:[1,13],random:9,rang:[1,2,3,4,9,13],rasant:13,rather:[2,6,7],ratio:5,ration:9,rationalis:1,rayon:13,rck:13,re:9,reach:[7,9],read:13,real:[3,4,5],realli:2,reason:7,recent:[8,13],reciev:13,rectangl:4,recurs:3,red:4,reduc:[6,8],refin:5,reflect:[1,2,4,5],reflecto:13,reflectometri:[0,2,3,4,5,6,7,8,9,11],refnx:[3,13],refract:[3,5],region:[1,4,8,9],relat:7,relationship:1,relev:[8,13],reli:3,render:1,reparameteris:[5,7,8,11,13],repeat:7,repositori:13,repres:[2,11],reproduc:3,requir:[6,13],res1:9,res2:9,resolut:[1,2],respect:1,result:[1,2,3,4,5,9],resultant_matrix:3,retriv:1,rev:13,review:13,rewrit:1,rho:[3,7],rho_:7,rho_ni:7,rho_ti:7,rho_to_beta:7,richardson:13,right:[1,4],risat:13,robust:9,room:7,root:9,rout:9,rphysap:13,rsta:13,rstl:13,rule:4,s0021889811041446:13,s0921:13,s1359:13,s1600576718017016:13,s1600576718017296:13,s:[0,1,7,8,9,10,13],saaka:13,sai:1,same:[1,4,5,7,11],sampl:[0,1,2,4,7],sanchez:13,sansom:13,satija:13,scale:[1,13],scatter:[0,1,3,4,5,6,8,12,13],sche:13,scherrer:12,schlossman:12,school:13,sci:13,scienc:[2,13],scipi:[1,7,9,11],search:13,section:[2,5,6,9],see:[4,5,9],seen:[10,11],select:11,self:8,semi:9,sensit:1,separ:1,seri:[1,3,4,5],set:7,set_xlabel:[1,4,11],set_xlim:4,set_ylabel:[1,4,11],set_ylim:4,shao:13,shape:[3,9],shortest:4,should:[1,4,6,8,9,11,13],show:[1,2,3,4,5,7,8,9,11,13],shown:[1,2,3,4,5,8,9,11],si:1,sigma2:4,sigma3:4,sigma5:4,sigma7:4,sigma:[4,11],sigma_:4,sigma_n:11,signal:1,silic:13,silicon:[1,4,7],similar:[2,3],simpl:[1,2,5,6,7,8,9,10,13],simpli:9,simul:[2,4,5,6,7],sin:8,singl:[8,11],sio_2:1,sit:[8,11],siv11:[1,13],sivia:[1,10,13],sj06:[10,13],skill:13,skip:13,sko19:13,skoda:[12,13],slab:[4,6,8,13],sld_with_rough:4,smooth:[1,4],so:11,soc:13,soft:13,solid:13,solubl:8,solut:9,solv:13,solvat:8,solvent:[8,13],some:[0,1,2,4,5,8,9,10,11,13],someth:[0,2],son:13,sourc:[12,13],sp97:[9,13],space:[0,9,13],spallat:[12,13],speak:8,specif:[6,8],spectra:2,specular:13,spintron:13,springer:13,sqrt:3,squar:[1,3],sratifi:13,staff:8,standard:[11,12,13],start:[9,10],stat:[9,11],state:10,std:1,step:[1,4,9,10],stephen:12,still:[4,7],storn:13,straight_lin:11,straightforward:6,strand:8,stratifi:3,structur:[1,2,6,7,13],studi:[1,2,8,13],subject:13,subplot:[1,4,11],suggest:[10,13],sum:[1,3,7],sum_:[7,8,11],summat:11,superphas:3,sur:13,sure:13,surfac:[1,3,7,13],surfact:13,swarm:9,synthesi:2,system:[1,2,4,5,6,7,8,9,13],t:[9,13],t_t:8,tackl:2,tail:8,take:[0,2,9,10],taken:[3,5],tan80:[8,13],tanford:[8,13],techniqu:[6,13],technolog:12,temperatur:7,tend:1,term:[5,7,8,11],text:1,textquotesingl:13,than:[1,4,7,9],thei:[1,9,13],them:[4,11],theorem:10,theori:[1,13],therefor:[1,2,4,6,7,9,10],theta:[8,9,10,11],thi:[0,1,2,3,4,5,6,7,8,9,10,11],thick:[1,3,4,5,8],thin:4,thing:2,think:6,those:10,thought:1,three:[2,7],through:[3,4,5,13],thumb:4,tight_layout:11,time:[0,1,4,7],times10:1,tiqu:13,titanium:7,tkh:[9,13],togeth:3,tom:12,tool:[1,2,6],top4:9,top:1,toperverg:13,total:13,toward:[1,9,13],tradit:[7,8,13],tran:13,transform:[2,3,5,13],translat:6,transmitt:3,treec:13,trigonometri:8,tude:13,turn:9,tutori:[10,13],two:[1,2,3,4,5,6,8,9],txt:11,typic:[2,4,5,6,7,8,9,11],tz07:13,u:7,uantum:13,uncertainti:11,unclear:7,under:[1,3,8],underli:[2,11],understand:[1,2,3,5,6,10,13],unintuit:6,uniqu:9,unit:0,unitregistri:7,univers:[12,13],unlik:8,unphys:[1,4],until:7,up:9,uphil:9,us:[2,3,4,6,7,8,9,10,11,13],useless:1,user:[1,13],utilis:1,valu:[1,3,7,8,9,10,11],valuabl:1,vari:[7,9],variabl:7,varieti:9,vector:3,veri:[4,8,9],verr:13,version:1,vibrat:2,video:0,visualis:[1,4],vot:13,w:[7,13],wa:[1,2,5,10,13],wai:[2,8],watch:0,water:[8,13],wave:[3,5],wavevector:[1,3],wc19:13,we:[0,1,2,4,5,6,7,8,10,11,13],webpag:13,weight:7,welbourn:13,well:2,were:10,what:13,when:[3,5,8,9,10,11],where:[1,2,3,4,5,7,8,9,10,11],which:[0,1,3,4,7,8,9,10,11],width:4,wiesendang:13,wilei:13,within:10,without:[1,2,4],word:[2,13],work:[4,6,13],workflow:2,workshop:13,wormington:13,would:[1,2,4,5,8,10],wpmb99:[9,13],written:[1,11],wwe:8,x:[1,9,11,13],x_n:11,xlabel:[1,3,4,8,9],xy:8,y:[9,10,11,13],y_fit:11,y_n:11,ylabel:[1,3,4,8,9],you:[1,2,10,11,13],your:[8,13],yscale:[1,3,4],yy:11,z:[1,3,4,5],zabel:13,zentrum:12,zero:3,zeros_lik:[1,3],zhou:13,zorder:11,zq:1,ztbt07:13},titles:["An introduction to Fourier transforms","Fourier transforms for reflectometry analysis","What is model-dependent analysis?","How we calculate the reflectivity of a slab model","Roughness and microslicing","The \u201cslab model\u201d","A case for model reparameterisation","NiTi multilayer example","Phospholipid monolayer example","How do we maximise the likelihood?","How to leverage our prior knowledge?","What is the likelihood?","Contributors","A Guide to Reflectometry"],titleterms:{"case":6,"do":9,A:[6,10,13],The:[1,5],about:13,algorithm:3,an:[0,1],analysi:[1,2],angl:8,approxim:1,area:8,bibliographi:13,born:1,calcul:3,chain:8,contributor:12,densiti:7,depend:2,exampl:[1,7,8],fourier:[0,1],gradient:9,guid:13,how:[3,9,10],interfac:1,interfaci:4,introduct:0,knowledg:10,layer:1,length:7,leverag:10,likelihood:[9,11],mass:7,materi:13,maximis:9,method:9,microsl:4,model:[2,3,5,6],molecul:8,monolay:8,multilay:7,niti:7,our:10,oxid:1,per:8,phospholipid:8,prior:10,problem:4,reflect:[3,13],reflectometri:[1,13],reparameteris:6,rough:4,scatter:7,singl:1,slab:[3,5],specular:1,stochast:9,thi:13,tilt:8,transform:[0,1],uniform:10,us:1,vs:13,we:[3,9],what:[0,2,11]}})

diff --git a/2_model_dependent_analysis/what_is_model_dependent_analysis.html b/2_model_dependent_analysis/what_is_model_dependent_analysis.html
@@ -415,7 +415,7 @@ If you have “fit” data to some analytical model, like an equation, then you 
 <p>The word <strong>simulation</strong> above is being used broadly above, but in the context of neutron reflectometry, we are interested calculating the reflectivity that some model system would produce.
 We will not cover how to get the experimental data, but we will cover in detail how to simulate our data and how we compare it with the experimental data.
 Additionally, we will look at how we can <strong>improve</strong> our model and some algorithms that are popular in reflectometry analysis to do this.</p>
-<p>A general workflow for model-dependent analysis is shown in <code class="xref std std-numref docutils literal notranslate"><span class="pre">flow-diagram</span></code>.
+<p>A general workflow for model-dependent analysis is shown below.
 First, we propose some <strong>model</strong> that we believe can accurately describe the system that we are studying.
 Then, we use some <strong>functional construct</strong> to calculate what the <em>experimental</em> data from such a system would look like.
 We compare this calculated, model data with our measured, experimental data and then <strong>change our model</strong> such as to improve the agreement between the two.</p>

diff --git a/5_fitting_processes_and_problems/how_do_we_maximise_the_likelihood.html b/5_fitting_processes_and_problems/how_do_we_maximise_the_likelihood.html
@@ -611,7 +611,7 @@ This is necessary as, as we can see from the overall maximum, the differential e
 </div>
 <div class="cell_output docutils container">
 <img alt="../_images/how_do_we_maximise_the_likelihood_6_0.png" src="../_images/how_do_we_maximise_the_likelihood_6_0.png" />
-<div class="output stream highlight-myst-ansi notranslate"><div class="highlight"><pre><span></span>Overall Maximum: [7.86310625 2.23954182]
+<div class="output stream highlight-myst-ansi notranslate"><div class="highlight"><pre><span></span>Overall Maximum: [ 3.04483649 -0.02606086]
 </pre></div>
 </div>
 </div>

diff --git a/_sources/2_model_dependent_analysis/what_is_model_dependent_analysis.md b/_sources/2_model_dependent_analysis/what_is_model_dependent_analysis.md
@@ -23,7 +23,7 @@ The word **simulation** above is being used broadly above, but in the context of
 We will not cover how to get the experimental data, but we will cover in detail how to simulate our data and how we compare it with the experimental data. 
 Additionally, we will look at how we can **improve** our model and some algorithms that are popular in reflectometry analysis to do this. 
 
-A general workflow for model-dependent analysis is shown in {numref}`flow-diagram`. 
+A general workflow for model-dependent analysis is shown below. 
 First, we propose some **model** that we believe can accurately describe the system that we are studying. 
 Then, we use some **functional construct** to calculate what the *experimental* data from such a system would look like. 
 We compare this calculated, model data with our measured, experimental data and then **change our model** such as to improve the agreement between the two. 
